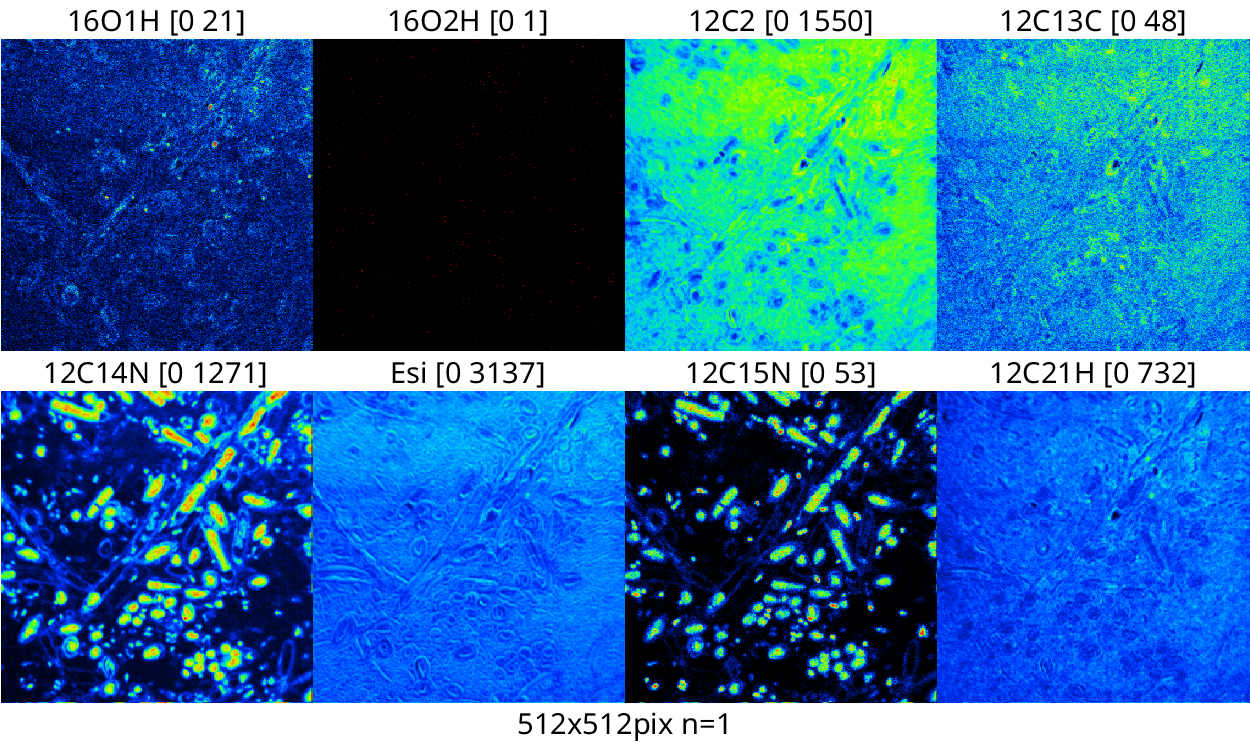
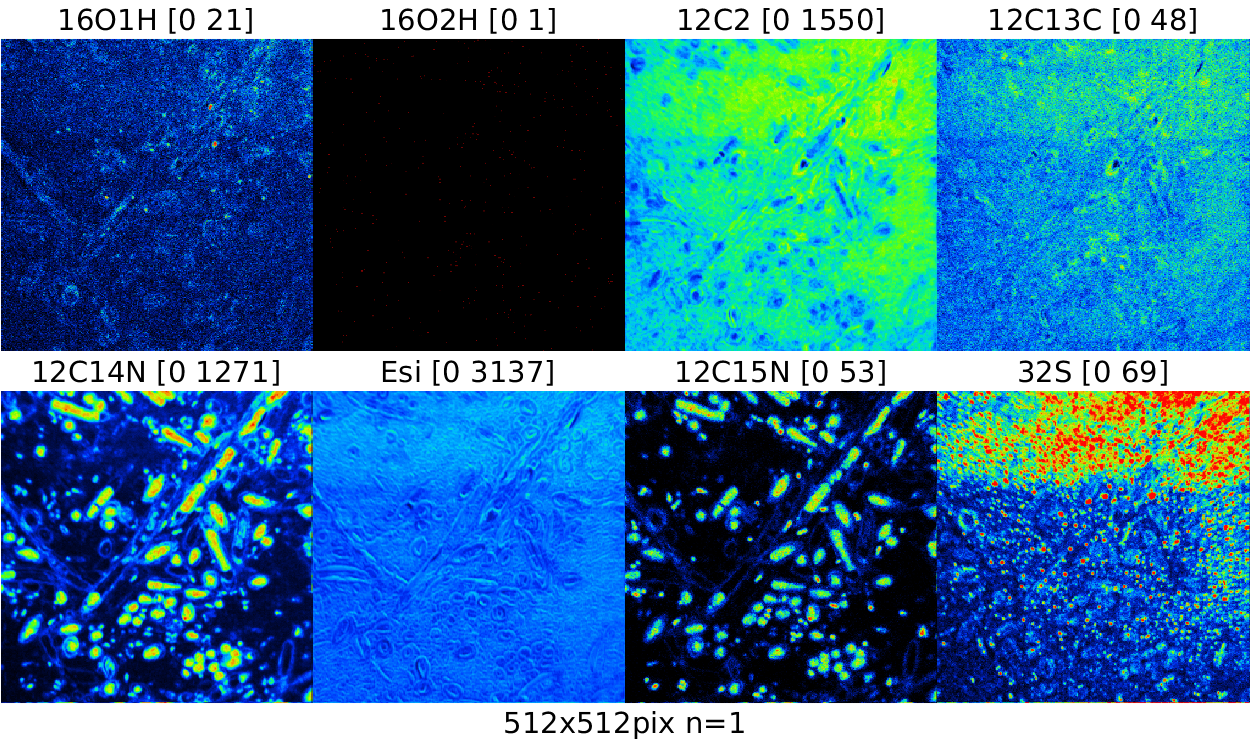
documentation for load8plus finished, including update of figures.

diff --git a/man/tex/extras/LANS_load8plus.tex b/man/tex/extras/LANS_load8plus.tex
@@ -1,11 +1,14 @@
 \subsection{Loading datasets with more than 8 masses}
 \setcounter{step}{0}
 
-\goldbox{Work in progress}
+\goldbox{}
 During a~typical NanoSIMS measurement, at most 8~different ionic species are recorded: 7~different isotopes, and secondary electrons (normally denoted as \ttt{Esi}). This explains the visual design of LANS, which contains 8~fields for \lanstf{detected masses}. However, NanoSIMS instrument can operate in a~so-called peak-switching mode, which allows quasi-simultaneous detection of up to 15~different ionic species ($2\times 7$ different isotopes and \ttt{Esi}). This section explains how to use LANS to analyze datasets containing counts of more than 8~ionic species.
 \tcbe
 
+\noindent
 This feature was added to LANS based on a~request from Dr.~Hryhoryi Stryhanyuk (UFZ Leipzig). In the example below, we use one of the datasets acquired in his lab to illustrate the approach: \ttt{2022-01-25-OPG\_1.im.zip}.
+
+\vskip0.5\baselineskip
 
 \s {Load the raw dataset.}
 
@@ -25,11 +28,11 @@ An example of the output generated during loading is shown here:
 \includegraphics[scale=0.34]{figs8/LANS-8plus-autoscale}
 \end{center}}
 
-\nnb{Due to the limited number of fields dedicated to detected \lanstf{masses} in the LANS user interface (maximum~8), all of these ionic species cannot be displayed in the list. Nevertheless, they \emph{are} registered internally within the list of detected masses and can therefore be used in any of the \lanstf{expressions} (see below).}
+\nnb{It is important the realize that due to the limited number of fields dedicated to detected \lanstf{masses} in the LANS user interface (maximum~8), all of these ionic species \emph{cannot} be displayed in the list. Indeed, only the first 8~masses are included in the list. Nevertheless, they \emph{are} registered internally within the list of detected masses and can therefore be used in any of the \lanstf{expressions} (see below).}
 
 \s {Select \lans{Input} $\ra$ \lans{Display images for all masses} to view the raw ion counts, plane by plane.}
 
-\nb{Note that some masses only show non-zero counts in \emph{every second plane}. This is because the specific detectors used peak switching to alternately detect two ionic species at the same nominal mass. In this example, it concerns the following pairs (Fig.~\ref{fig:LANS-8plus-frames}): ${}^{12}\mathrm{C}{}^{13}\mathrm{C}$ \& ${}^{12}\mathrm{C}_2{}^{1}\mathrm{H}$ at nominal mass~25, ${}^{12}\mathrm{C}{}^{14}\mathrm{N}$ \& ${}^{12}\mathrm{C}_2{}^{2}\mathrm{H}$ at nominal mass~26, ${}^{12}\mathrm{C}{}^{15}\mathrm{N}$ \& ${}^{13}\mathrm{C}{}^{14}\mathrm{N}$ at nominal mass~27, and ${}^{32}\mathrm{S}$ \& ${}^{31}\mathrm{P}{}^{1}\mathrm{H}$ at nominal mass~32.}
+\nb{Note that some masses only show non-zero counts in \emph{every second plane}. This is because the specific detectors used peak switching to alternately detect two ionic species at the same nominal mass. In this example, it concerns the following pairs: ${}^{12}\mathrm{C}{}^{13}\mathrm{C}$ \& ${}^{12}\mathrm{C}_2{}^{1}\mathrm{H}$ at nominal mass~25, ${}^{12}\mathrm{C}{}^{14}\mathrm{N}$ \& ${}^{12}\mathrm{C}_2{}^{2}\mathrm{H}$ at nominal mass~26, ${}^{12}\mathrm{C}{}^{15}\mathrm{N}$ \& ${}^{13}\mathrm{C}{}^{14}\mathrm{N}$ at nominal mass~27, and ${}^{32}\mathrm{S}$ \& ${}^{31}\mathrm{P}{}^{1}\mathrm{H}$ at nominal mass~32 (Fig.~\ref{fig:LANS-8plus-frames}).}
 
 \begin{figure}[!ht]
 \centering
@@ -39,24 +42,25 @@ A: \includegraphics[scale=0.6, valign=t]{figs8/m-001}
 B: \includegraphics[scale=0.6, valign=t]{figs8/m-002}
 \end{tabular}
 \caption{\label{fig:LANS-8plus-frames}%
-Example of raw data acquired via peak-switching mode. Shown are ion counts in the first two planes, after automatic rearrangement by LANS. }
+Example of raw data acquired via peak-switching mode. Shown are ion counts in the first two planes, after automatic rearrangement by LANS. Note that only the first 8~masses are displayed in this view, although a~total of 12~different masses were detected. This is due to the limitation of the  graphical interface of LANS. This limitation, however, does not impede further analysis of the data by LANS.}
 \end{figure}
 
-\s {While viewing the detected ions in the previous step, identify suitable mass that can be used as a~\lanstf{Base mass for alignment}.}
+\s {While viewing the detected ions in the previous step, identify suitable mass that can be used as a~\lanstf{Base mass for alignment} and type it into the corresponding text field.}
 
 \nb{Clearly, this mass should have non-zero ion counts in \emph{every} plane to yield valid drift correction information.}
 
-\nnb{In this example, it cannot be \ttt{12C14N}. Instead, \ttt{Esi} is a good candidate, as it is detected in every plane and has sufficiently high counts and contrast in individual planes.}
+\nnb{In this example, it cannot be \ttt{12C14N}. Instead, \ttt{Esi} is a good candidate, as it is detected in every plane and has sufficiently high counts and contrast in individual planes. \ttt{12C2} could be another good candidate. }
 
-\s {Select \lans{Input} $\ra$ \lans{Accumulate plane images}.}
+\s {Select \lans{Input} $\ra$ \lans{Accumulate plane images} to accumulate drift-corrected ion images.}
 
-\nb{Check \lanscb{Align images when accumulating} if you want to perform drift correction during accumulation of planes.}
+\nb{As usual, the \lanscb{Align images when accumulating} checkbox needs to be checked if you want to perform drift correction during accumulation of planes.}
 
-\s {Proceed as described in Section~\ref{sec:} to analyze ion counts, ion count ratios, or conduct other types of analysis (examples of output shown in Fig.~\ref{fig:LANS-8plus-ratios}). }
+\s {Proceed as described in Section~\ref{sec:} to analyze ion counts, ion count ratios, or conduct other types of analysis. Examples of the output generated for this type of data are shown in Fig.~\ref{fig:LANS-8plus-ratios}.}
 
-\nnb{If you want to display (and export) ion count images for masses that are \emph{not} displayed in the list of 8~detected masses, type the name of the mass in the \lanstf{expression} field for the ratio, adjust the scale and select \lans{Output} $\ra$ \lans{Display ratios}. For example, you will need to proceed in this way to display images of ${}^{12}\mathrm{C}_2{}^{2}\mathrm{H}$ (\ttt{12C22H}), ${}^{32}\mathrm{S}$ (\ttt{32S}), or ${}^{31}\mathrm{P}{}^{1}\mathrm{H}$ (\ttt{31P1H}).}
+\nnb{When analyzing data with more than 8~masses, you need to pay special attention to the following: If you want to display (and export) ion count images for masses that are \emph{not} displayed in the list of 8~detected masses, you need to type the name of the mass in the \lanstf{expression} field for the \bb{ratio}, as illustrated in Fig.~\ref{fig:LANS-8plus-extra-masses}, adjust the scale, and then select \lans{Output} $\ra$ \lans{Display ratios}. For example, you need to proceed in this way to display images of ${}^{12}\mathrm{C}_2{}^{1}\mathrm{H}$ (\ttt{12C21H}), ${}^{12}\mathrm{C}_2{}^{2}\mathrm{H}$ (\ttt{12C22H}), ${}^{13}\mathrm{C}{}^{14}\mathrm{N}$ (\ttt{13C14N}), or ${}^{31}\mathrm{P}{}^{1}\mathrm{H}$ (\ttt{31P1H}).}
 
-\nnb{You need to pay extra attention when defining \lanstf{expressions} for isotope ratios. For example, if the molecular ions of ${}^{12}\mathrm{C}{}^{13}\mathrm{C}$ and ${}^{12}\mathrm{C}_2$ were detected in every plane, the correct expression for obtaining the atomic ${}^{13}\mathrm{C}/{}^{12}\mathrm{C}$ isotope ratio would be \ttt{0.5*12C13C/12C2}. However, because in this example the molecular ions of ${}^{12}\mathrm{C}{}^{13}\mathrm{C}$ were only detected in every second plane, while the molecular ions of ${}^{12}\mathrm{C}_2$ were detected in every plane, the correct expression is \ttt{12C13C/12C2}.}
+\nnb{Additionally, you need to pay extra attention when defining \lanstf{expressions} for isotope ratios. For example, if the molecular ions of ${}^{12}\mathrm{C}{}^{13}\mathrm{C}$ and ${}^{12}\mathrm{C}_2$ were detected in every plane, the correct expression for obtaining the atomic ${}^{13}\mathrm{C}/{}^{12}\mathrm{C}$ isotope ratio would be \ttt{0.5*12C13C/12C2}. However, because in this example the molecular ions of ${}^{12}\mathrm{C}{}^{13}\mathrm{C}$ were only detected in every second plane, while the molecular ions of ${}^{12}\mathrm{C}_2$ were detected in every plane, the correct expression for the ${}^{13}\mathrm{C}/{}^{12}\mathrm{C}$ isotope ratio is \ttt{12C13C/12C2}.}
+
 
 \def\scf{0.4}
 \begin{figure}[!ht]
@@ -77,7 +81,14 @@ D & E & F\\
 \includegraphics[scale=\scf, valign=t]{figs8/12C15N-12C14N-vs-12C22H-12C21H-vs-12C13C-12C2-rgb}
 \end{tabular}
 \caption{\label{fig:LANS-8plus-ratios}%
-Examples of isotope ratio images derived from data collected via peak-switching mode. Panels (A--B) show ${}^{13}\mathrm{C}/{}^{12}\mathrm{C}$ isotope ratios obtained from two different ion pairs. Panels (D--E) show ${}^{2}\mathrm{H}/{}^{1}\mathrm{H}$ isotope ratios obtained from two different ion pairs. Panel F shows an overlay between three isotope ratios: ${}^{15}\mathrm{N}/{}^{14}\mathrm{N}$ (red), ${}^{2}\mathrm{H}/{}^{1}\mathrm{H}$ (green), and ${}^{13}\mathrm{C}/{}^{12}\mathrm{C}$ (blue).}
+Examples of isotope ratio images derived from data collected via peak-switching mode, illustrating the power of this measurement approach for multi-isotope imaging mass spectrometry. Panels (A--B) show the ${}^{13}\mathrm{C}/{}^{12}\mathrm{C}$ isotope ratio obtained from two different ion pairs: ${}^{12}\mathrm{C}{}^{13}\mathrm{C}$ \&\ ${}^{12}\mathrm{C}_2$ and ${}^{13}\mathrm{C}{}^{14}\mathrm{N}$ \&\ ${}^{12}\mathrm{C}{}^{14}\mathrm{N}$. Panel C shows the ${}^{15}\mathrm{N}/{}^{14}\mathrm{N}$ isotope ratio obtained from the ion pair ${}^{12}\mathrm{C}{}^{15}\mathrm{N}$ \&\ ${}^{12}\mathrm{C}{}^{14}\mathrm{N}$. Panels (D--E) show the ${}^{2}\mathrm{H}/{}^{1}\mathrm{H}$ isotope ratio obtained from two different ion pairs: ${}^{16}\mathrm{O}{}^{2}\mathrm{H}$ \&\ ${}^{16}\mathrm{O}{}^{1}\mathrm{H}$ and ${}^{12}\mathrm{C}_2{}^{2}\mathrm{H}$ \&\ ${}^{12}\mathrm{C}_2{}^{1}\mathrm{H}$. Panel F shows an RGB overlay between the three isotope ratios: ${}^{15}\mathrm{N}/{}^{14}\mathrm{N}$ (red), ${}^{2}\mathrm{H}/{}^{1}\mathrm{H}$ (green), and ${}^{13}\mathrm{C}/{}^{12}\mathrm{C}$ (blue).}
+\end{figure}
+
+\begin{figure}[!ht]
+\centering
+\includegraphics[scale=0.45, valign=t]{figs8/LANS-8plus-masses-ratios}
+\caption{\label{fig:LANS-8plus-extra-masses}%
+Processing of data acquired using peak-switching mode. Text fields on the left only contain the first 8~masses present in the dataset (marked by green). If you want to display the other masses in the dataset, you need to type their name in one of the \lanstf{expression} text fields on the right (marked by red), adjust the scale, and then select \lans{Output} $\ra$ \lans{Display ratios}. Similarly, you can use the names in \lanstf{expressions} to calculate ion count ratios (marked blue).}
 \end{figure}
 
 \s {When finishing the analysis, don't forget to save the preferences by selecting \lans{Preferences} $\ra$ \lans{Store preferences}.}

diff --git a/man/tex/LANS_manual.tex b/man/tex/LANS_manual.tex
@@ -92,7 +92,7 @@ Throughout this document, we will use text in coloured boxes when refering to a 
 \section{Less commonly used functions in LANS}
 \label{sec:level3}
 
-This section describes functions of Look@NanoSIMS that are useful under special circumstances. Many of these functions have been added based on stimulus from colleagues and collaborators, who wanted to look at their NanoSIMS data in a special way. Thus, these functions likely distinguish Look@NanoSIMS from other programs used for NanoSIMS data processing.
+This section describes functions of Look@NanoSIMS that are useful under special circumstances. Many of these functions have been added based on stimulus from colleagues and collaborators, who wanted to look at their NanoSIMS data in a specific way. Hence, these functions likely distinguish Look@NanoSIMS from other programs used for NanoSIMS data processing.
 
 
 %\input{extras/LANS_hue_modulation} % done

diff --git a/man/tex/LANS_preamble.tex b/man/tex/LANS_preamble.tex
@@ -64,7 +64,7 @@
 
 % step box
 \tcbset{sbox/.style={
-	enhanced,
+	enhanced,breakable,
        fonttitle=\footnotesize,
        colframe=gold!70,
        colbacktitle=gold!20,
@@ -100,7 +100,7 @@
 
 % note box
 \tcbset{nbbox/.style={
-	enhanced,
+	enhanced, breakable,
        fonttitle=\footnotesize,
        colframe=purple!70,
        colbacktitle=purple!20,
@@ -122,7 +122,7 @@
 	attach boxed title to top left={xshift=-0.09\linewidth,yshift=-1.15\baselineskip},
        minipage boxed title=.05\linewidth,
 	boxrule=0pt,
-	leftrule=0.5mm,
+	leftrule=0.5mm, 
 	left*=0pt, right*=0pt, %top=1mm, bottom=1mm, 
 	boxsep=0\baselineskip,
 	arc=0mm, %rounded corners,	
